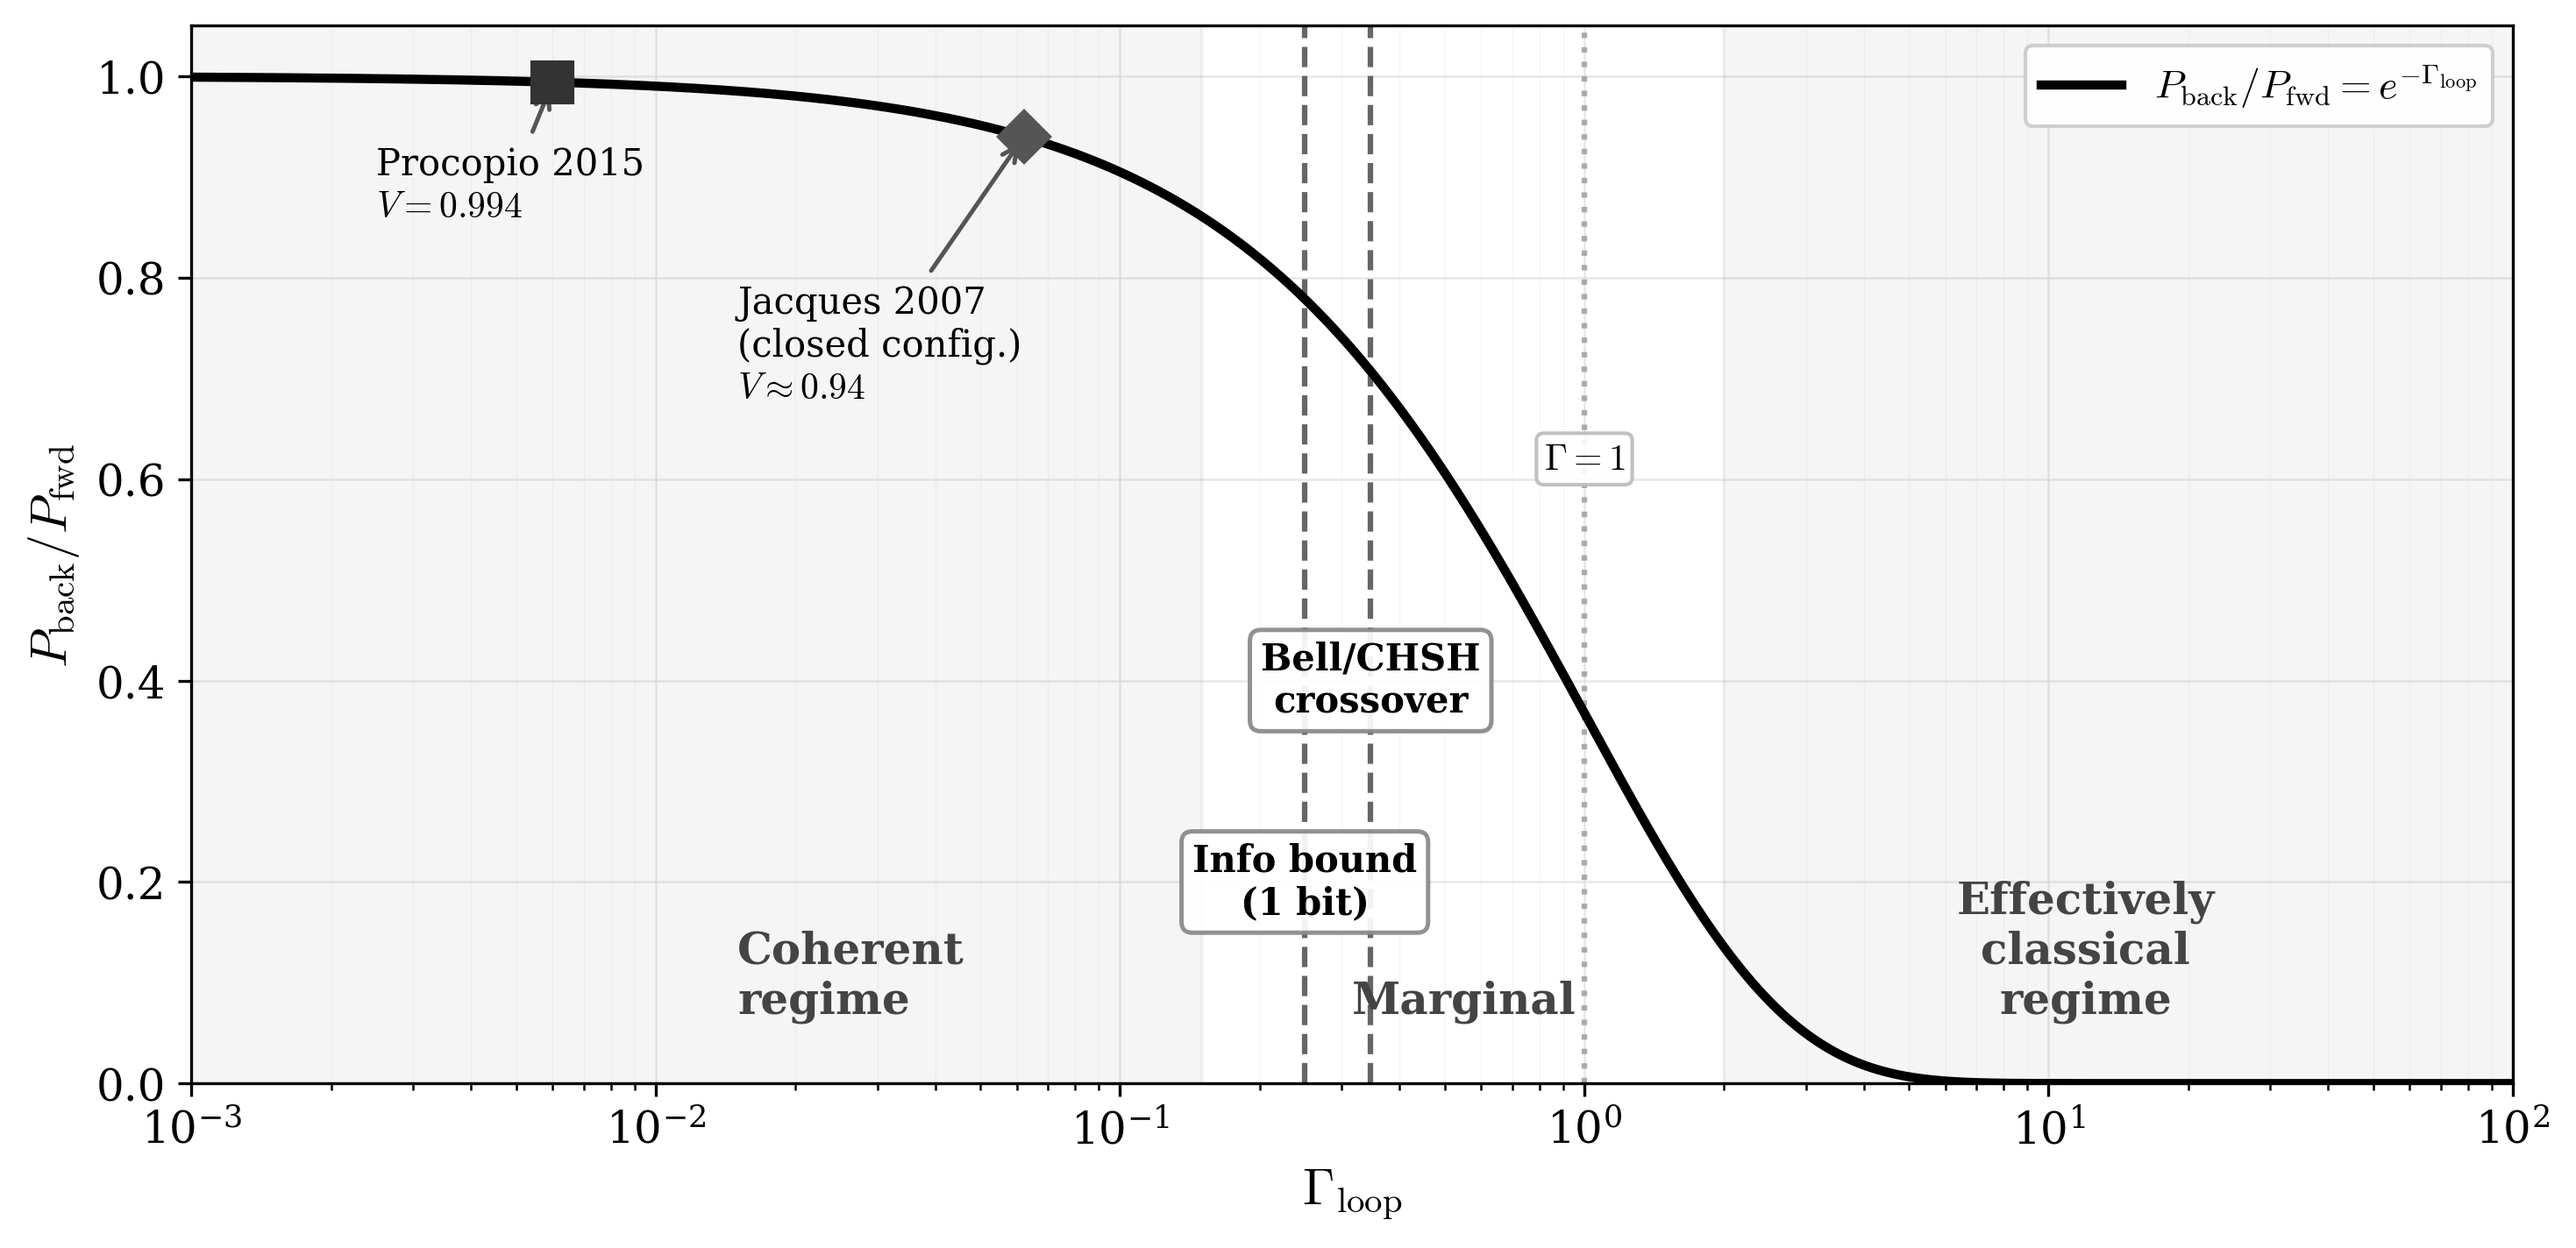
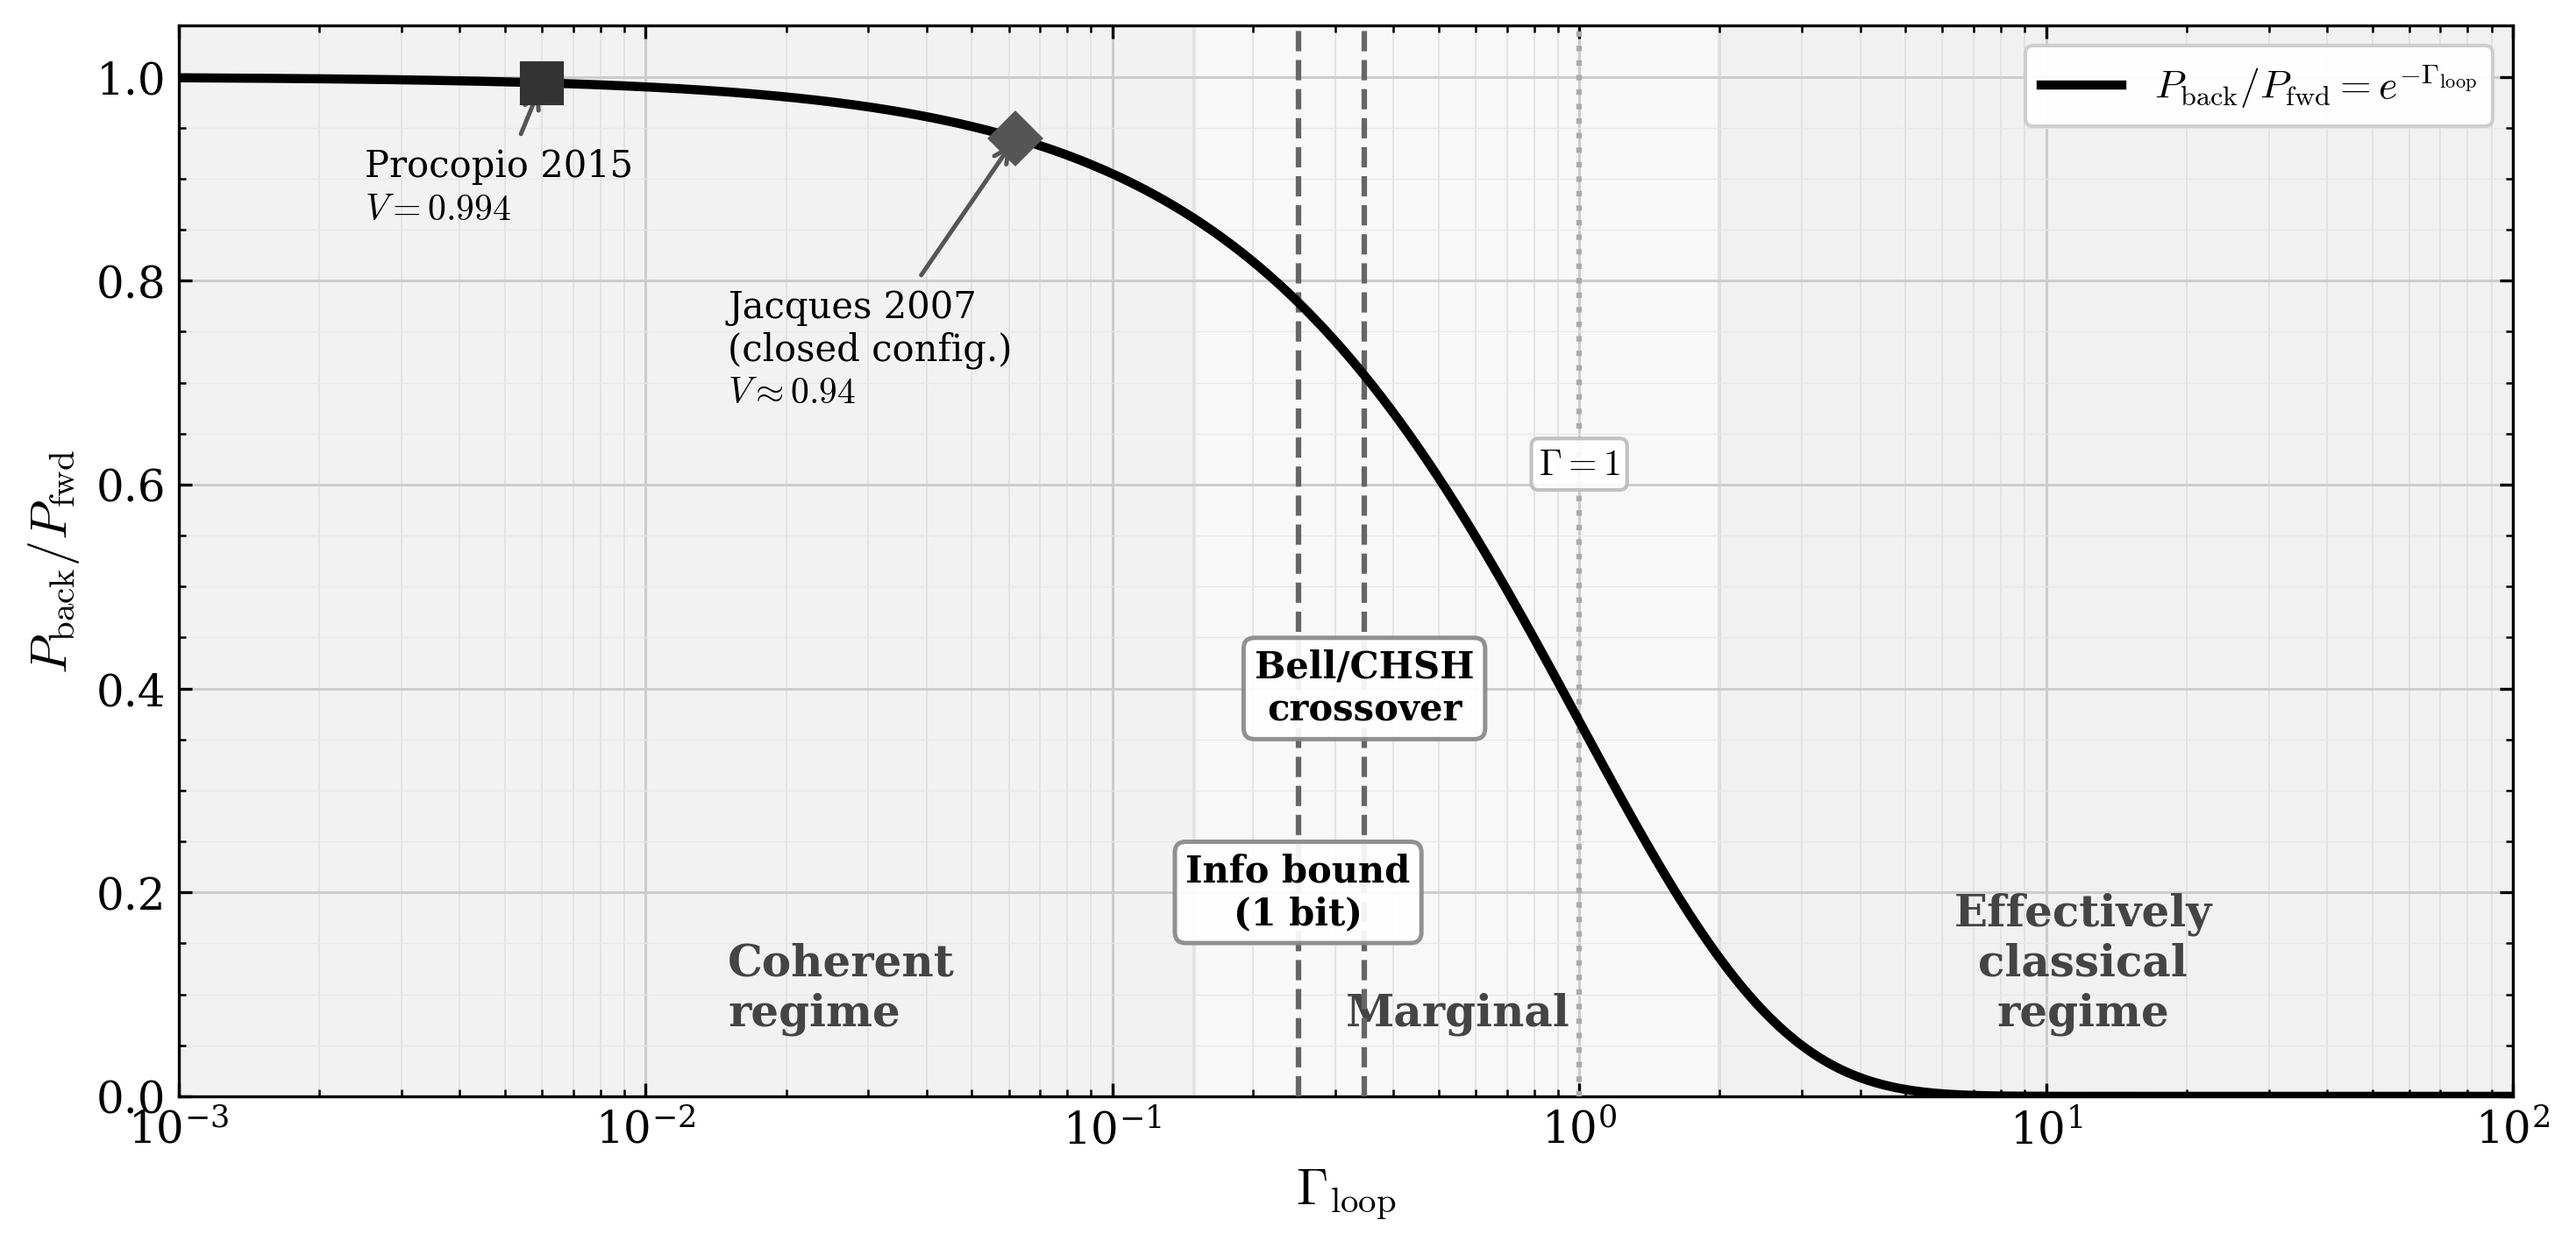
F2 Gamma v5: log grid with minor ticks, three distinct regime shades (coherent darker, marginal lightest, classical medium), tick marks inward on all sides. 537pp 0err

diff --git a/fig_gamma_crossover.py b/fig_gamma_crossover.py
@@ -1,6 +1,6 @@
 """
-ECT Γ_loop crossover map — log-scale grayscale, clean layout
-v4: labels below, data labels shifted left, grid added
+ECT Γ_loop crossover map — log-scale grayscale
+v5: log grid ticks, distinct regime shading
 """
 import matplotlib; matplotlib.use('Agg')
 import matplotlib.pyplot as plt
@@ -15,14 +15,25 @@ fig, ax = plt.subplots(figsize=(10, 5))
 
 G = np.logspace(-3, 2, 500)
 P = np.exp(-G)
+
+# Three distinct regime shadings
+ax.axvspan(1e-3, 0.15, alpha=0.12, color='#999', zorder=0)   # coherent — darker
+ax.axvspan(0.15, 2.0,  alpha=0.05, color='#888', zorder=0)   # marginal — lightest
+ax.axvspan(2.0,  100,  alpha=0.10, color='#777', zorder=0)   # classical — medium
+
+# Log-scale grid with minor ticks
+ax.set_xscale('log')
+ax.grid(True, which='major', axis='both', color='#ccc', lw=0.7, zorder=1)
+ax.grid(True, which='minor', axis='x',   color='#e0e0e0', lw=0.4, zorder=1)
+ax.grid(True, which='minor', axis='y',   color='#e8e8e8', lw=0.3, zorder=1)
+ax.minorticks_on()
+ax.set_axisbelow(True)
+
+# Main curve
 ax.plot(G, P, 'k-', lw=2.5, zorder=10,
         label=r'$P_{\rm back}/P_{\rm fwd}=e^{-\Gamma_{\rm loop}}$')
 
-# Regime shading (grayscale)
-ax.axvspan(1e-3, 0.15, alpha=0.08, color='#888')
-ax.axvspan(2.0, 100, alpha=0.08, color='#888')
-
-# Regime labels — BOTTOM of graph, large bold
+# Regime labels at bottom
 ax.text(0.015, 0.06, 'Coherent\nregime', fontsize=12, fontweight='bold',
         va='bottom', ha='left', color='#444')
 ax.text(0.55, 0.06, 'Marginal', fontsize=12, fontweight='bold',
@@ -43,36 +54,31 @@ ax.annotate('Jacques 2007\n(closed config.)\n$V\\approx 0.94$',
             arrowprops=dict(arrowstyle='->', lw=1.2, color='#555'))
 
 # Theory thresholds
-ax.axvline(0.25, color='#666', ls='--', lw=1.5)
-ax.axvline(np.log(np.sqrt(2)), color='#666', ls='--', lw=1.5)
-ax.axvline(1.0, color='#aaa', ls=':', lw=1.5)
+ax.axvline(0.25, color='#666', ls='--', lw=1.5, zorder=8)
+ax.axvline(np.log(np.sqrt(2)), color='#666', ls='--', lw=1.5, zorder=8)
+ax.axvline(1.0, color='#aaa', ls=':', lw=1.5, zorder=8)
 
-# Boxed annotations — spread apart
 bbox = dict(boxstyle='round,pad=0.3', facecolor='white', edgecolor='#888',
             alpha=0.92, lw=1.2)
 ax.text(np.log(np.sqrt(2)), 0.40, 'Bell/CHSH\ncrossover', fontsize=10,
-        ha='center', va='center', fontweight='bold', bbox=bbox)
+        ha='center', va='center', fontweight='bold', bbox=bbox, zorder=15)
 ax.text(0.25, 0.20, 'Info bound\n(1 bit)', fontsize=10,
-        ha='center', va='center', fontweight='bold', bbox=bbox)
+        ha='center', va='center', fontweight='bold', bbox=bbox, zorder=15)
 ax.text(1.0, 0.62, r'$\Gamma=1$', fontsize=10,
-        ha='center', va='center', bbox=dict(boxstyle='round,pad=0.2',
-        facecolor='white', edgecolor='#bbb', alpha=0.9, lw=1.0))
+        ha='center', va='center', zorder=15,
+        bbox=dict(boxstyle='round,pad=0.2', facecolor='white',
+                  edgecolor='#bbb', alpha=0.9, lw=1.0))
 
-# Grid (subtle)
-ax.grid(True, which='major', color='#ddd', lw=0.6, alpha=0.7)
-ax.grid(True, which='minor', color='#eee', lw=0.3, alpha=0.5)
-ax.set_axisbelow(True)
-
-ax.set_xscale('log')
 ax.set_xlabel(r'$\Gamma_{\rm loop}$', fontsize=14)
 ax.set_ylabel(r'$P_{\rm back}/P_{\rm fwd}$', fontsize=14)
 ax.set_xlim(1e-3, 100)
 ax.set_ylim(0, 1.05)
 ax.legend(loc='upper right', fontsize=11, framealpha=0.95)
+ax.tick_params(which='both', direction='in', top=True, right=True)
 
 fig.tight_layout()
 out = os.path.join(os.path.dirname(os.path.abspath(__file__)), '..', 'figures')
 fig.savefig(os.path.join(out, 'fig_gamma_crossover.pdf'), bbox_inches='tight')
 fig.savefig(os.path.join(out, 'fig_gamma_crossover.png'), dpi=300, bbox_inches='tight')
 plt.close()
-print("fig_gamma_crossover OK")
+print("OK")
